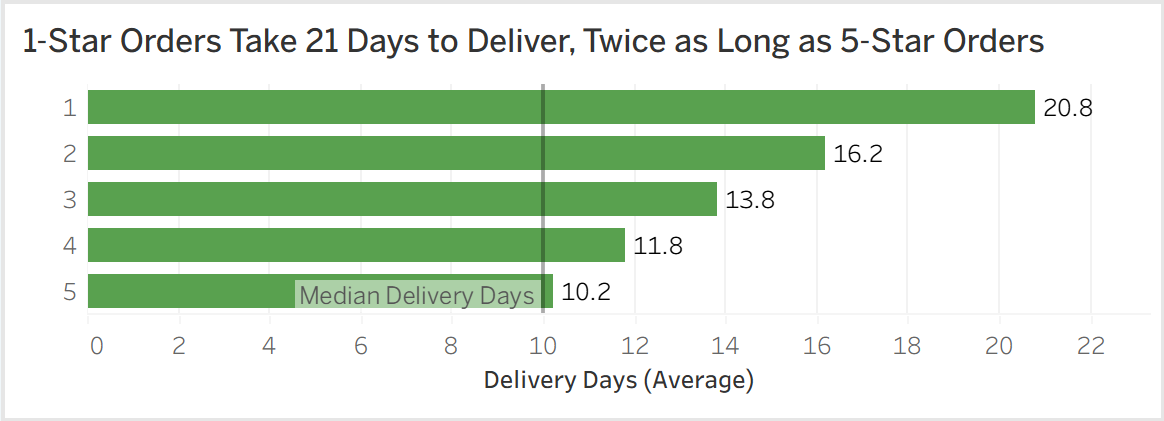
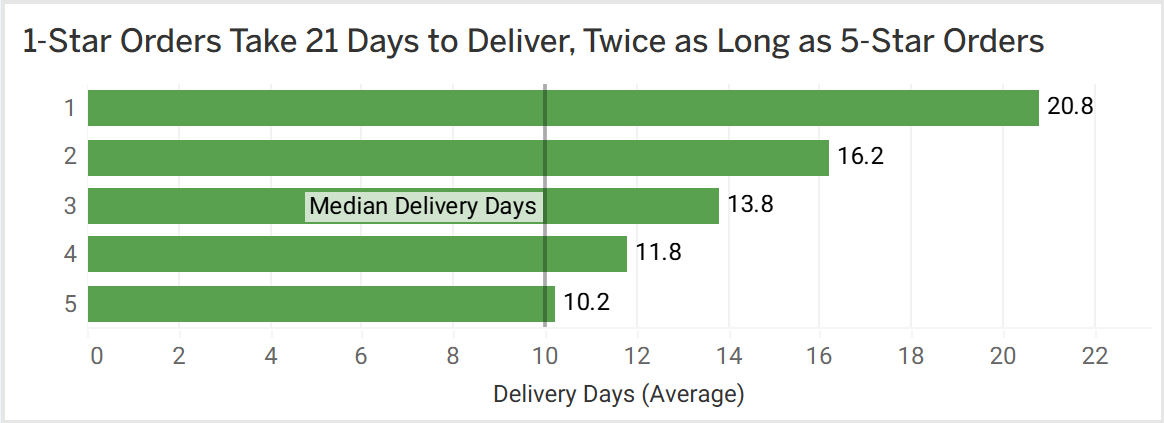
image fixing

diff --git a/README.md b/README.md
@@ -20,15 +20,15 @@ What operational factors, such as delivery time, freight cost, and seller behavi
 
 - **Higher freight costs are associated with worse reviews, but delivery time is likely the real reason.** The median freight cost spread across all review scores is only about 2 Brazilian Real. The correlation with bad reviews is likely confounded by delivery time, since bulky products cost more to ship and also take longer to deliver.
 
-<img src="images/freight_vs_review_score.png" width="70%" alt="Freight Costs vs Review Score">
+<img src="images/median_freight_varies_by_2_dollars_graph.png" width="70%" alt="Horizontal bar chart showing Freight Costs vs Review Score">
 
 - **Arriving late relative to the estimate is not the core problem.** Olist pads delivery estimates enough that even the worst-reviewed orders typically arrive 6 days early. Raw delivery time, not relative lateness, drives dissatisfaction. A customer waiting 20 days for their order is unhappy regardless of what the estimate said.
 
 <img src="images/1_star_orders_arrived_3.4_days_before_graph.png" width="70%" alt="Horizontal Bar chart showing 1-Star Orders Take 21 Days to Deliver, Twice as Long as 5-Star Orders">
 
- **Some sellers consistently generate bad reviews at a rate far above the platform average.** Among sellers with at least 20 orders, the worst performer has a 70.1% bad review rate across 107 orders. One high-volume seller with 967 orders carries a 40.4% bad review rate, generating approximately 391 bad reviews on their own. "Every seller in the top 30 by bad review rate has at least double the 23% average of the platform.
+**Bad reviews are a platform-wide logistics problem, not a bad seller problem.** Sellers with a bad review rate above 35% account for only 14% of all bad reviews on the platform. The remaining 86% come from sellers at or near the platform average of 23%. Removing every high-risk seller would leave the vast majority of the problem untouched."
 
-<img src="images/sellers_with_highest_bad_review_percent.png" width="70%" alt="Horizontal bar chart showing Sellers with Highest Bad Review Percentage">
+<img src="images/only_14_percent_of_bad_reviews_come_from_graph.png" width="70%" alt="Horizontal bar chart showing only 14% of bad reviews come from High Risk Sellers">
 
 **Home and furniture categories have the worst bad review rates on the platform.** `office_furniture` has a 36.6% bad review rate across 1,244 orders, nearly double the platform average. `bed_bath_table` is the single largest contributor with 2,398 bad reviews across 9,175 orders. Home comfort, furniture, and mattress categories dominate the top 15 by bad review rate, suggesting something wrong with bulky, hard-to-ship products.
 